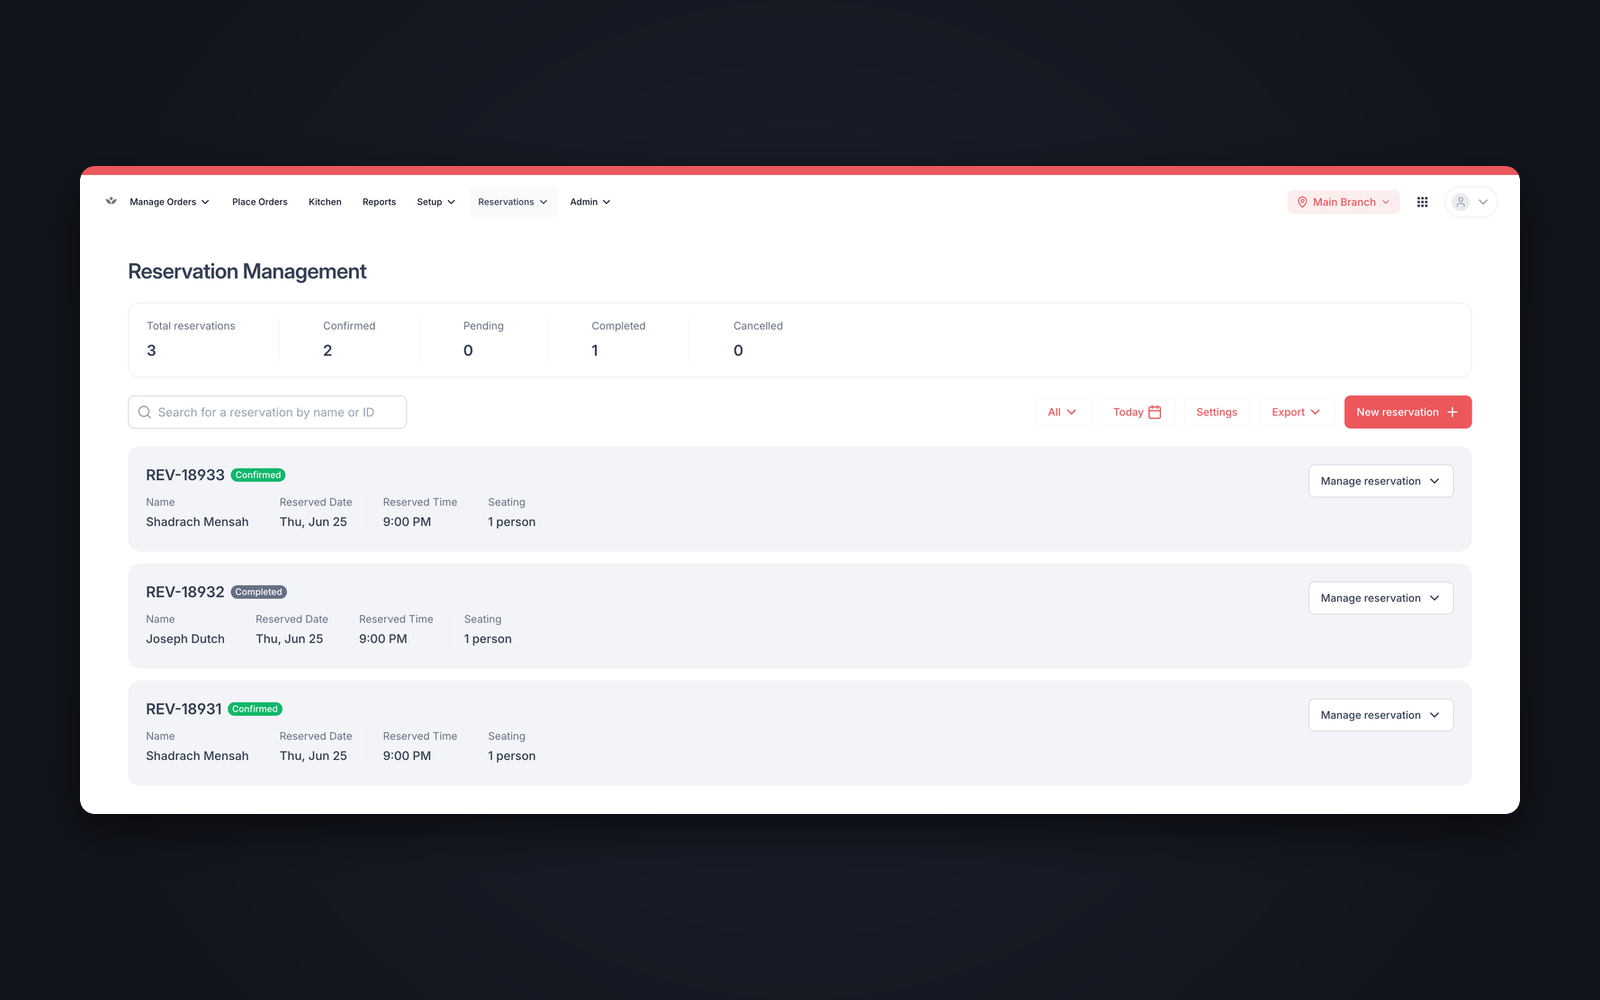
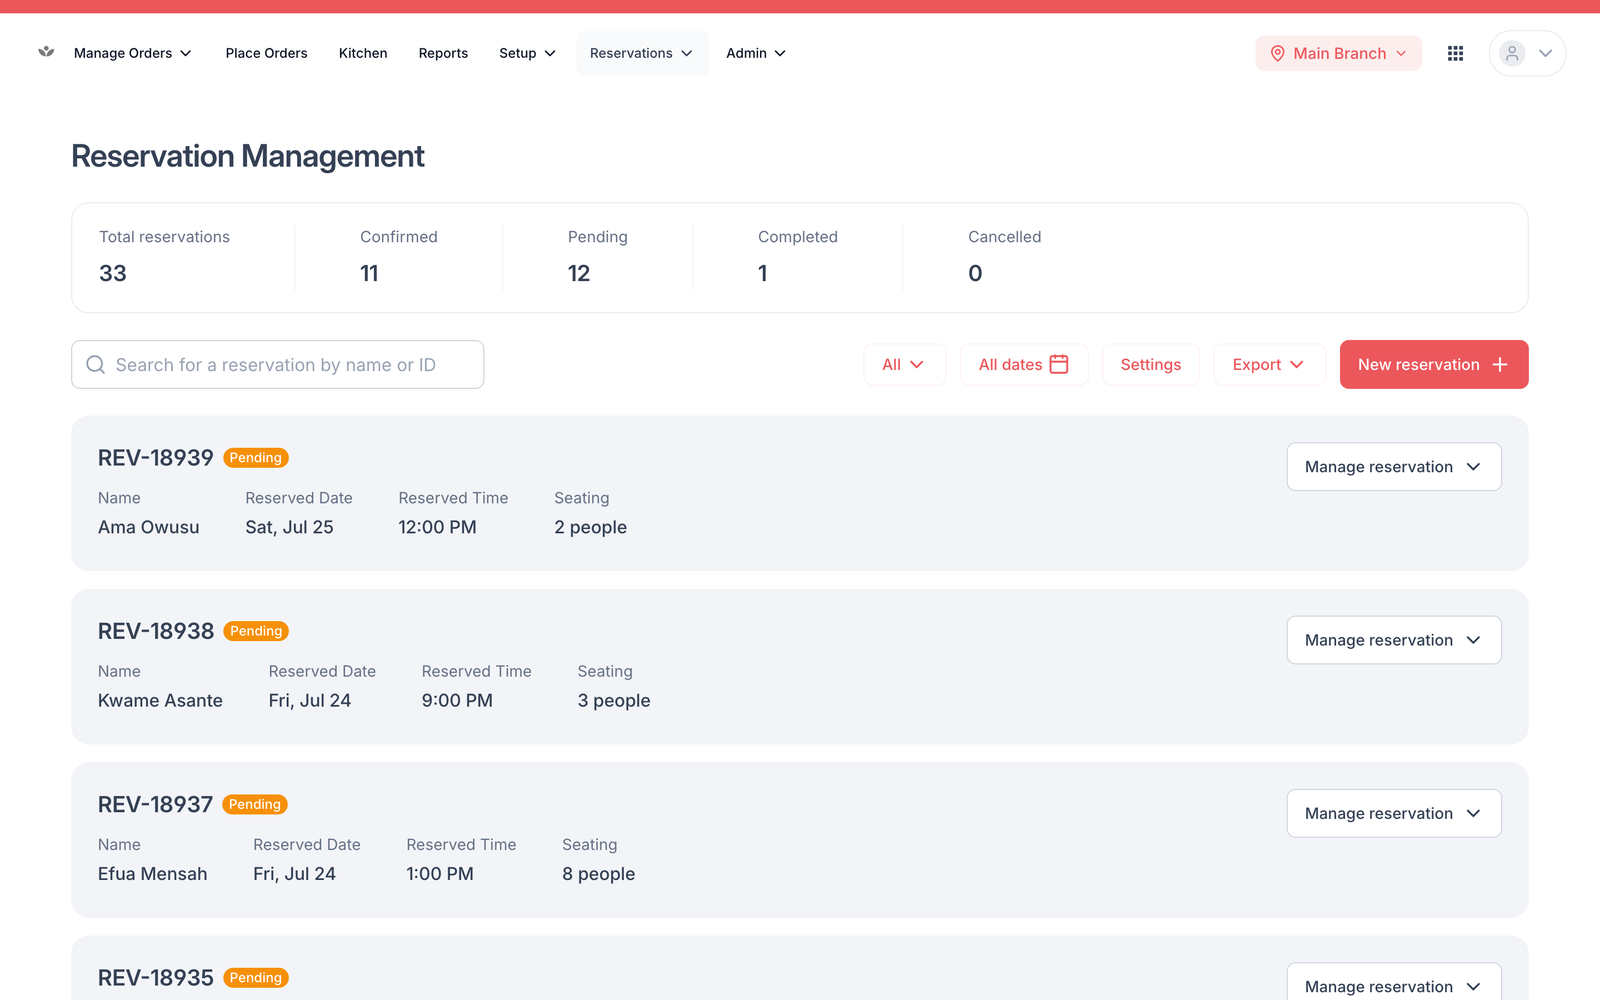
fix(desk): Harmony reservations retaken at 16:10 to fill its frame; even monitor wallpaper, no hotspot

diff --git a/components/desk/ScreenUI.jsx b/components/desk/ScreenUI.jsx
@@ -68,9 +68,7 @@ const Ui = styled.div`
   .glow {
     position: absolute;
     inset: 0;
-    background:
-      radial-gradient(80% 70% at 72% 18%, rgba(115, 77, 213, 0.55), transparent 70%),
-      radial-gradient(60% 60% at 12% 92%, rgba(145, 116, 220, 0.25), transparent 70%);
+    background: linear-gradient(165deg, rgba(115, 77, 213, 0.26), rgba(115, 77, 213, 0.1) 55%, rgba(115, 77, 213, 0.04));
     pointer-events: none;
   }
 
